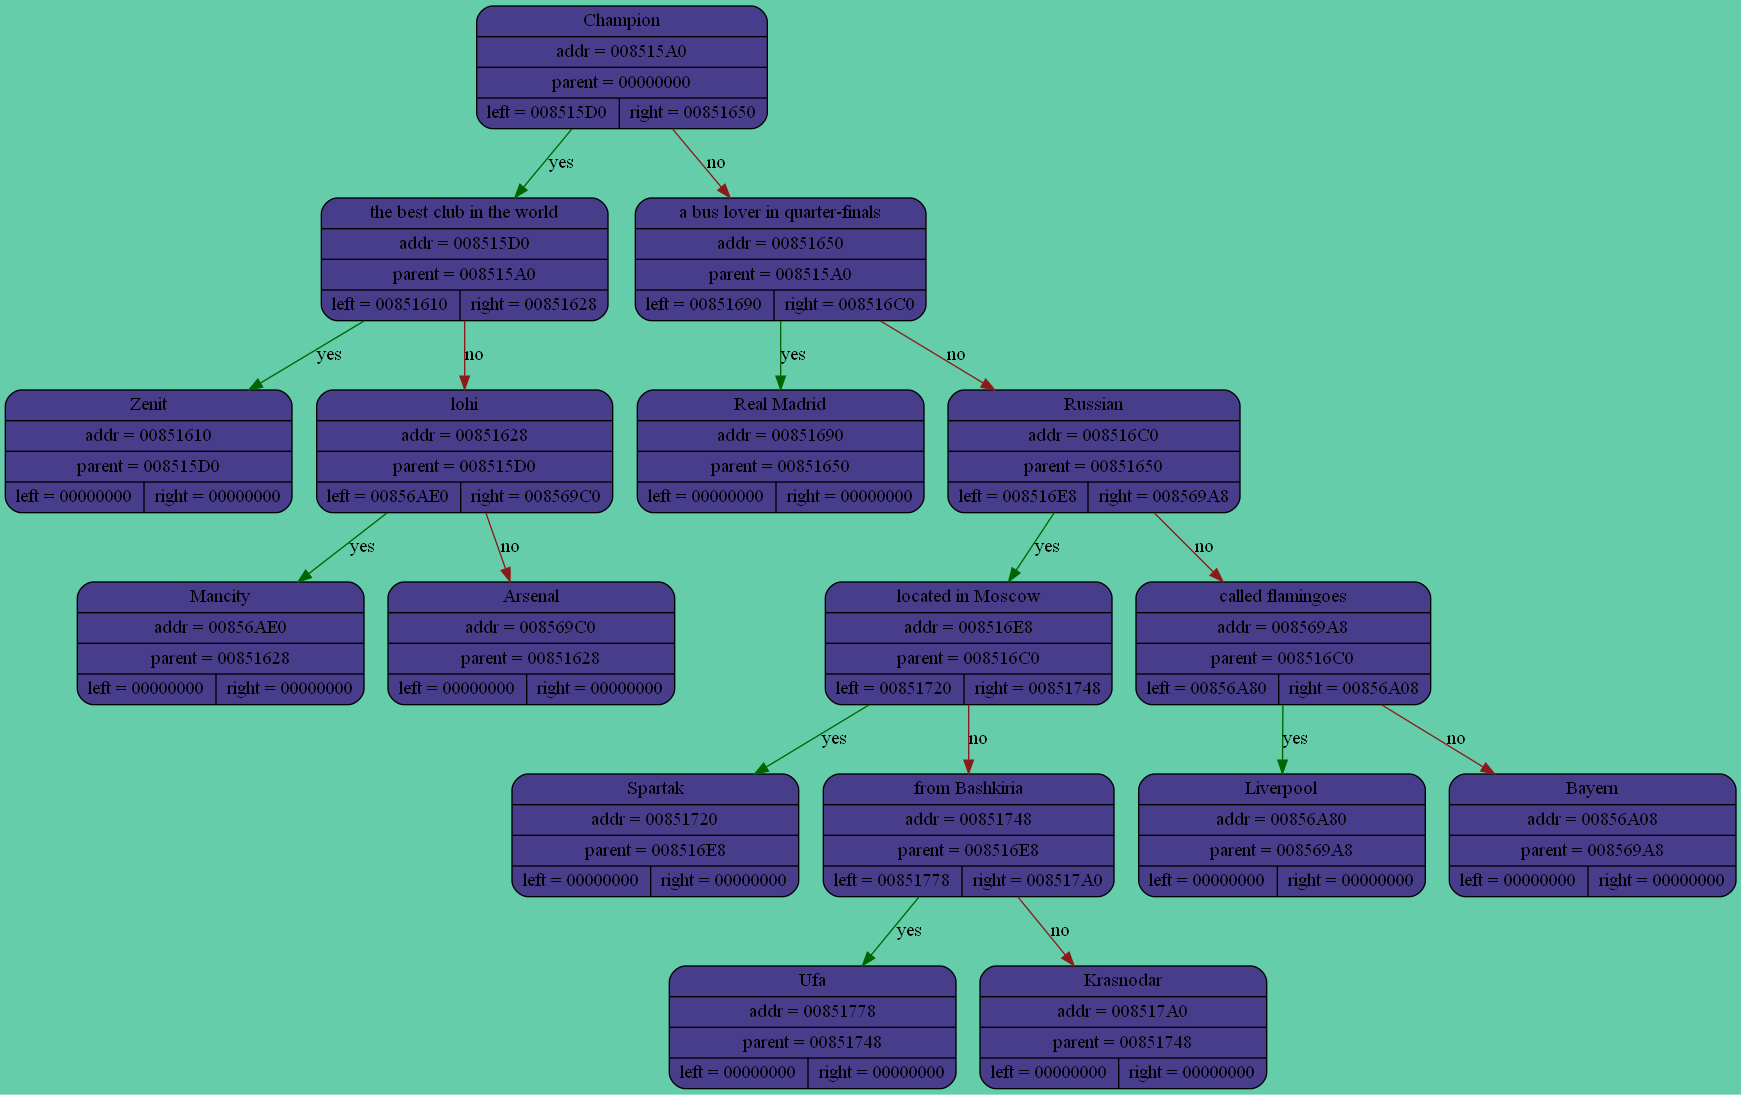
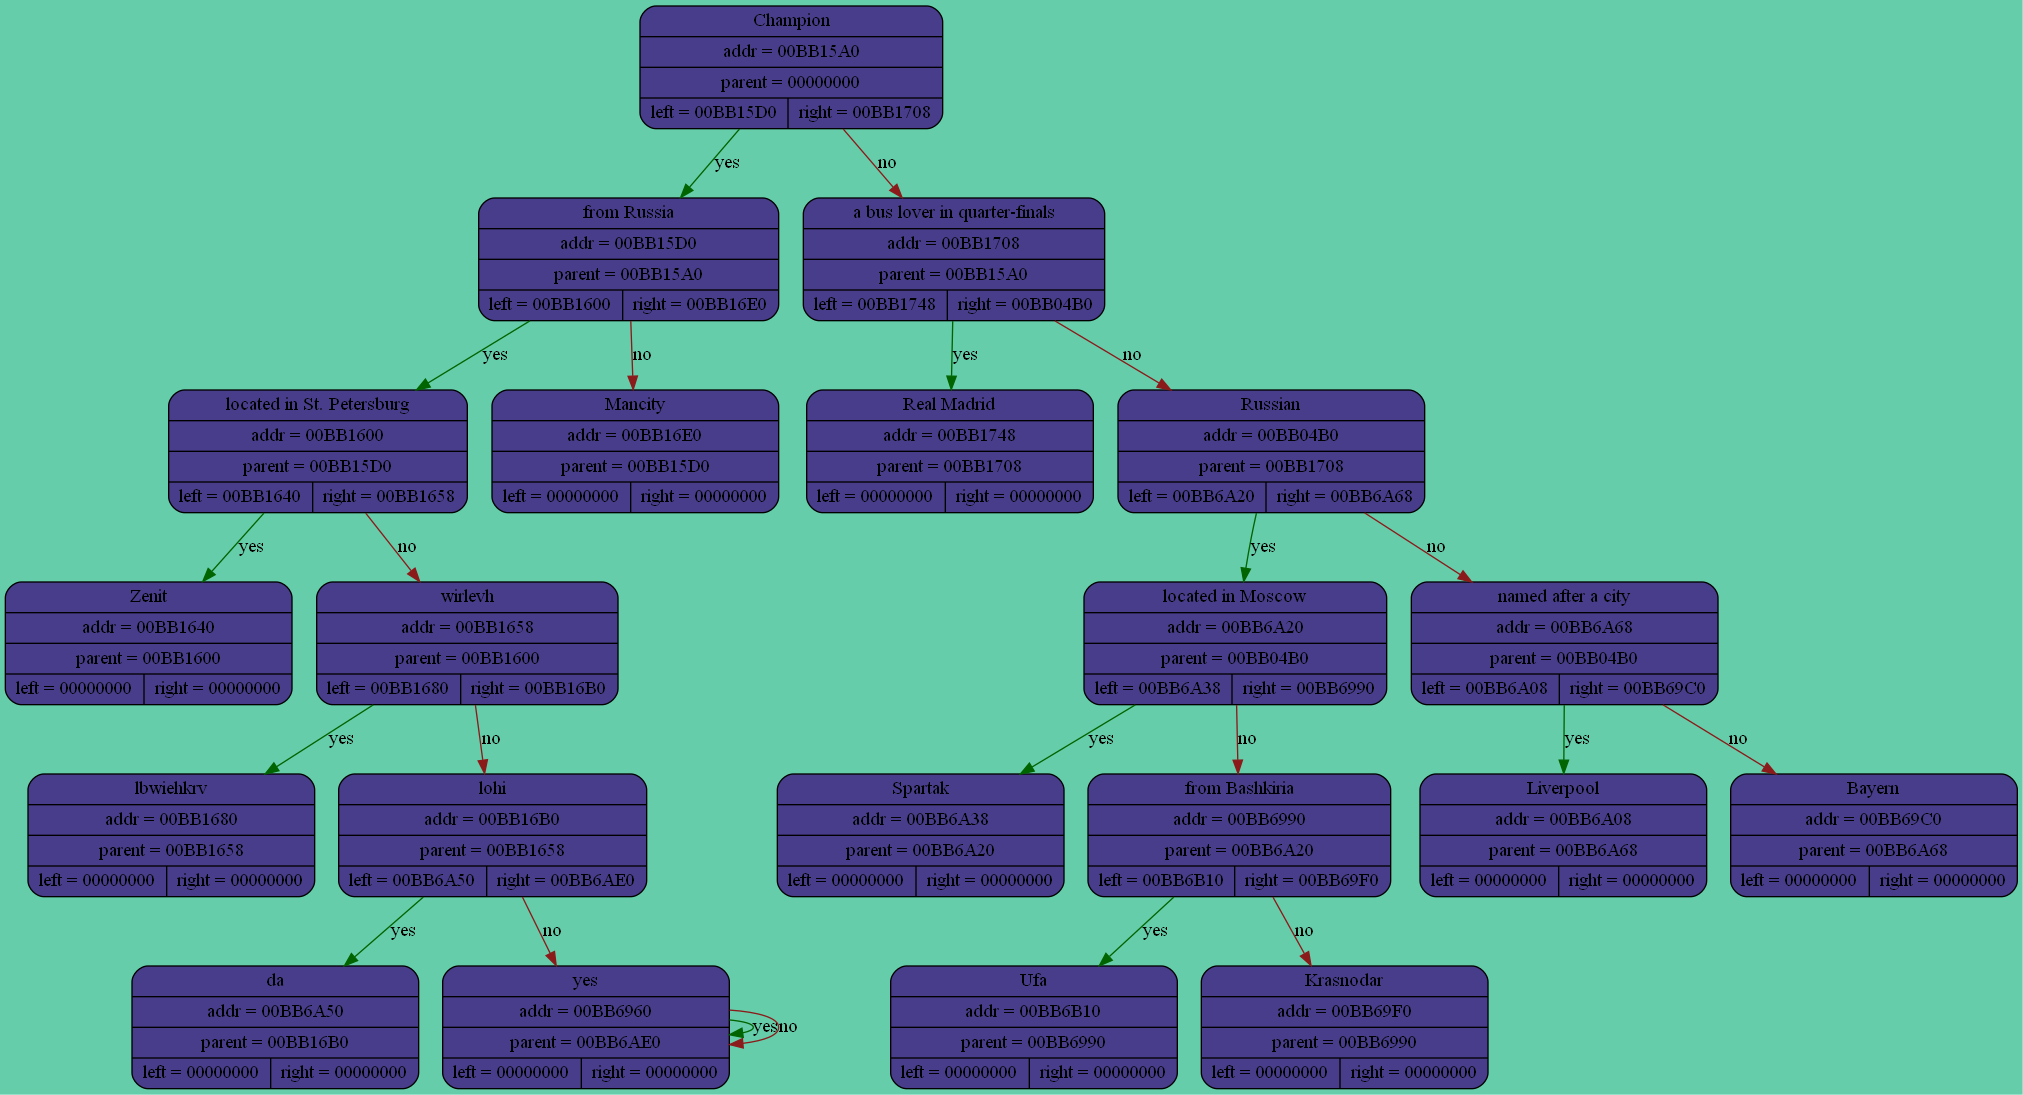
insert done

Changed region(s): [[0.0, 0.4968, 1.0, 1.0], [0.0, 0.0, 0.7134, 0.4968], [0.093, 0.4968, 0.1241, 0.5279]]

diff --git a/Guess.cpp b/Guess.cpp
@@ -1,7 +1,7 @@
 #include "Guess.h"
 #include "TreeInit.h"
 
-int Guess(Node_t* node)
+int Guess(Node_t* node, Node_t* root, char** argv)
 {
     char answer[MAX_DATA_LEN] = {};
 
@@ -11,7 +11,7 @@ int Guess(Node_t* node)
 
     if(stricmp(answer, "no") == 0 && node->left == NULL && node->right == NULL)
     {
-        node = CreateNode(node);
+        node = CreateNode(node, root, argv);
     }
 
     if(stricmp(answer, "yes") == 0)
@@ -22,7 +22,7 @@ int Guess(Node_t* node)
 
             return 0;
         }
-        if(Guess(node->left) == 0)
+        if(Guess(node->left, root, argv) == 0)
         {
             return 0;
         }
@@ -35,7 +35,7 @@ int Guess(Node_t* node)
 
             return 0;
         }
-        if(Guess(node->right) == 0)
+        if(Guess(node->right, root, argv) == 0)
         {
             return 0;
         }
@@ -55,7 +55,7 @@ int Guess(Node_t* node)
 
                 return 0;
             }
-            if(Guess(node->left) == 0)
+            if(Guess(node->left, root, argv) == 0)
             {
                 return 0;
             }
@@ -68,7 +68,7 @@ int Guess(Node_t* node)
 
                 return 0;
             }
-            if(Guess(node->right) == 0)
+            if(Guess(node->right, root, argv) == 0)
             {
                 return 0;
             }
@@ -78,9 +78,11 @@ int Guess(Node_t* node)
     return 0;
 }
 
-Node_t* CreateNode(Node_t* node)
+Node_t* CreateNode(Node_t* node, Node_t* root, char** argv)
 {
     assert(node);
+    assert(root);
+    assert(argv);
 
     char new_question[MAX_DATA_LEN] = {};
     char new_left    [MAX_DATA_LEN] = {};
@@ -101,5 +103,36 @@ Node_t* CreateNode(Node_t* node)
 
     node->right = MakeNode(node, new_right);
 
+    FILE* rewrite = fopen(argv[1], "w");
+
+    if(rewrite == NULL)
+    {
+        printf("cannot open file\n");
+        return NULL;
+    }
+
+    RewriteFile(root, rewrite);
+
+    fclose(rewrite);
+
     return node;
 }
+
+int RewriteFile(Node_t* node, FILE* rewrite)
+{
+    if(node == NULL)
+    {
+        return 0;
+    }
+
+    fprintf(rewrite, "{\"%s\"", node->data);
+
+    RewriteFile(node->left, rewrite);
+    RewriteFile(node->right, rewrite);
+
+
+    fprintf(rewrite, "}");
+
+    return 0;
+}
+

diff --git a/Guess.h b/Guess.h
@@ -3,8 +3,10 @@
 
 #include "Akinator.h"
 
-int Guess(Node_t* node);
+int Guess(Node_t* node, Node_t* root, char** argv);
 
-Node_t* CreateNode(Node_t* node);
+Node_t* CreateNode(Node_t* node, Node_t* root, char** argv);
+
+int RewriteFile(Node_t* node, FILE* rewrite);
 
 #endif

diff --git a/main.cpp b/main.cpp
@@ -24,7 +24,7 @@ int main(int argc, char** argv)
 
     //Definition(root);
 
-    Guess(root);
+    Guess(root, root, argv);
 
     GraphicDump(root, argv);
 
